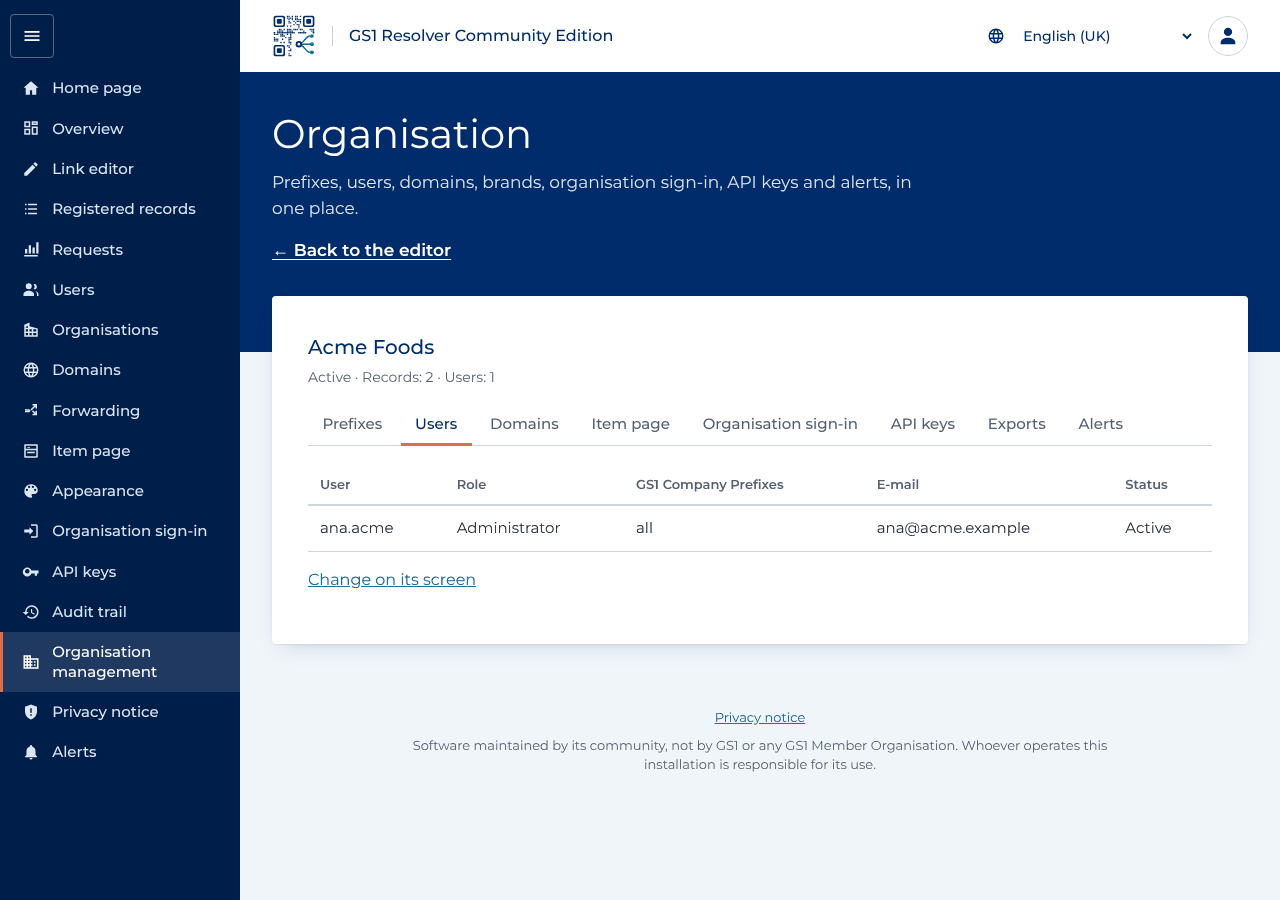
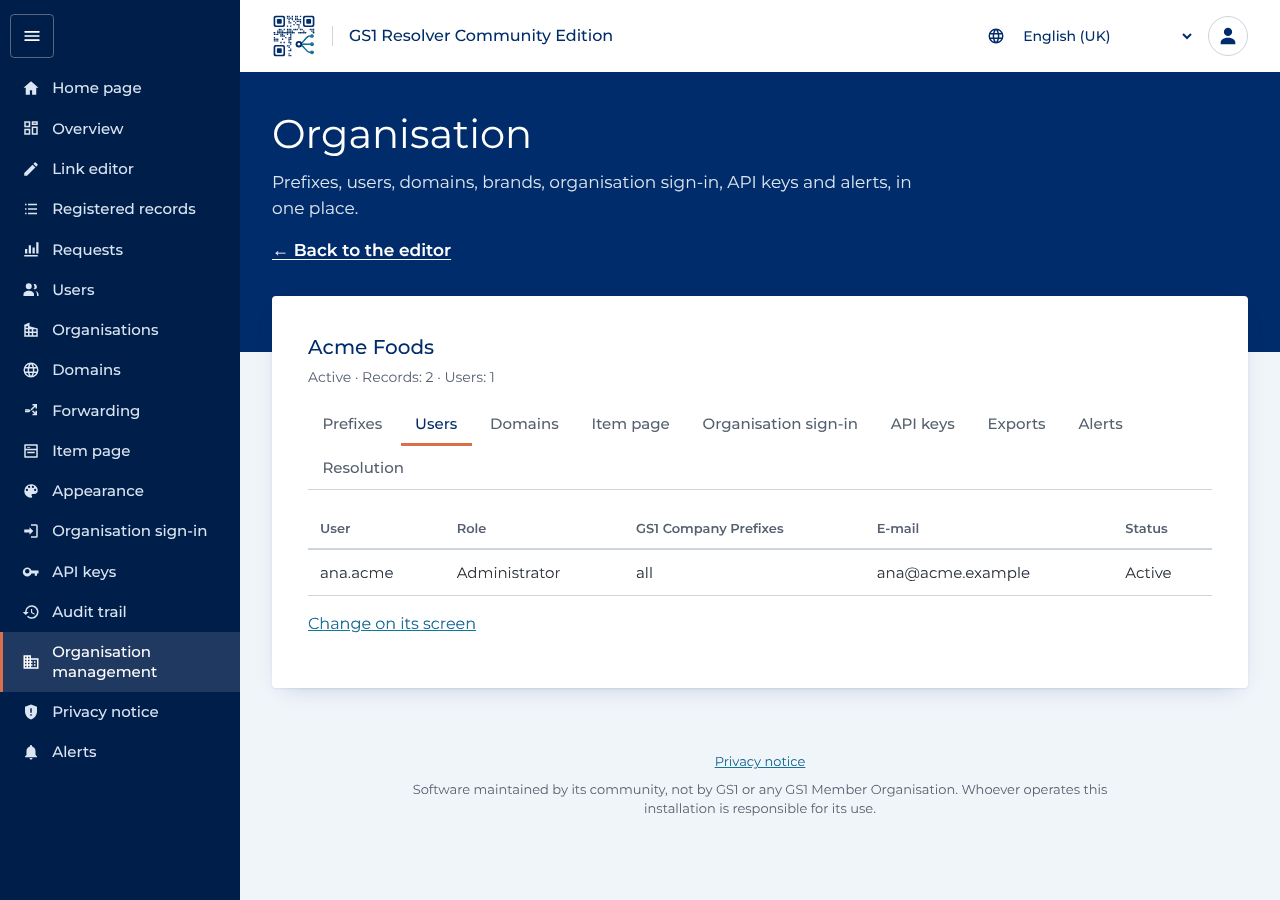
docs: the strict mode for safety-critical link types in the changelog, features, guide and history
The changelog and the portal guide tell organisations what the strict
mode changes, who switches it on (the organisation's page, Resolution;
the operator's for the codes no organisation holds) and how the requests
it keeps back appear; features cite the checks; the guide's image of the
organisation's page shows the new tab; history records step 3 of ADR
0022 (session 30). Code commit 6879817.

Claude-Session: https://claude.ai/code/session_01AV1ostr1WAtpHnzpHS1xNH

diff --git a/Documentation/portal-user-guide.md b/Documentation/portal-user-guide.md
@@ -312,7 +312,10 @@ batch or serial number goes to its own first target, or the other way round. A s
 that has no record, follows the product's choice. When a batch or serial number that has no record of its own is
 scanned, the page says so above the buttons — *Batch/lot L2 has no information of its own*, and whose targets it shows
 instead — so that nobody takes the product's recall notice or leaflet for the batch's
-([ADR 0022](adr/0022-answering-level.md)); register the batch, or at least the targets that differ, to answer for it. Above the targets the editor lists how the identifier's other
+([ADR 0022](adr/0022-answering-level.md)); register the batch, or at least the targets that differ, to answer for it.
+With the organisation's strict mode on (section 14, *Resolution*), such a batch receives no recall status, safety
+information, leaflet or instructions for use of the product at all: the page says the information is not available
+for it and lists the product's links under the same notice. Above the targets the editor lists how the identifier's other
 records do it (*Using the item's page: …*, *Going to their own default target: …*), and a new batch starts with the
 product's choice. Behind the scenes each record then carries its own default link (`gs1:defaultLink`); the portal
 writes it and does not show it, and nothing changes for the other records' targets. The page counts its **views** and the **clicks** on its buttons (section 16);
@@ -702,6 +705,7 @@ task is:
 | Create, change, disable, remove users; their roles and prefixes; invitations | their organisation's users | every user | *Users*, below |
 | See everything about one organisation in one place | their own | any organisation, and the operator's | [An organisation's page](#an-organisations-page-administrators) |
 | Limit exports per role (readers, editors, API keys) | their own | any organisation, and the operator's users | the organisation's page, *Exports* |
+| The strict mode for safety-critical link types | their own | any organisation, and the codes no organisation holds | the organisation's page, *Resolution* |
 | The most rows per export in every organisation | — | yes | [Organisations](#organisations-server-administrators) |
 | Create, rename, disable, remove organisations; their GS1 Company Prefixes | — | yes | [Organisations](#organisations-server-administrators) and the organisation's page |
 | Upload GS1's GCP length table | — | yes | [Organisations](#organisations-server-administrators) |
@@ -840,7 +844,7 @@ without changing them, only through support access.
 **Organisation management** (user menu; the page is titled with the organisation's name) gathers an organisation's
 settings in one place, each in a tab: its **Prefixes**, its
 **Users** with their prefixes, its **Domains**, its **Item page** brands, its **Organisation sign-in**, its **API
-keys**, its **Exports** and its **Alerts**. Each tab links to the screen that changes it. An organisation's
+keys**, its **Exports**, its **Alerts** and its **Resolution**. Each tab links to the screen that changes it. An organisation's
 administrators see their own; the server administrator opens any organisation from **Organisations** (**Open**),
 changes its prefixes on the **Prefixes** tab, and reaches another organisation's brands and API keys through support
 access; without choosing an organisation, the page shows the operator's own settings.
@@ -852,6 +856,22 @@ organisation's **Administrators** have the maximum. *Applies now* shows what eac
 a maximum lowered later says that the maximum applies. **Save limits** records the change in the audit trail; refused
 exports are there too (*Export refused*). On the operator's page the same tab limits the operator's users, without a
 maximum above them; server administrators have no limit. In support access the tab is read only.
+
+**Resolution** holds the **strict mode for safety-critical link types**, also changed on the tab itself
+([ADR 0022](adr/0022-answering-level.md)). Five link types are safety-critical: *Recall status*, *Safety information*,
+the patient leaflet (`gs1:epil`), the summary of product characteristics (`gs1:smpc`) and the electronic instructions
+for use (`gs1:eifu`). When a scan asks for one of them for a batch or serial number that has no such link of its own,
+the GS1 standard answers with the product's link (it cannot know which batches exist), so a batch nobody registered —
+or registered with its value typed differently — can receive the product's *not recalled* page. With the strict mode
+on, the batch or serial number must hold its own link of that type (a serial within a batch may use the batch's);
+otherwise the resolver answers that the information is not available for that batch (404) and, in a browser, shows
+the product's links under a notice that they may not apply to it. Other link types, a plain scan without a link type
+and the item's page are not affected. The table on the tab shows four requests with the mode off and on. Tick
+**Switch on the strict mode for this organisation**, confirm, and **Save**; the resolver applies the change within a
+minute, and the audit trail records it (*Strict mode changed*). Before switching it on, register a record (or at least
+these links) for every batch that should answer; *Requests* then shows the requests kept back as *Withheld by the
+strict mode*. On the operator's page the same tab sets it for the codes no organisation holds. Off by default; read
+only in support access.
 
 ### Alerts (administrators)
 
@@ -1009,7 +1029,7 @@ of the bars.
 **Latest requests.** The newest first, 200 at a time (**Show more** for the next ones). Each row shows when, the
 **Code** (the identifier and the qualifiers in the scan: a serial number appears only as `/21/*`; `?17` means the QR
 code carried an expiry date, whose value is not kept), the **Outcome** (*Redirected*, *Code not registered*, *No link
-of that type*, *Choice of links*, *Linkset*, *Invalid request*, *Item page* — a view of the item's page reached by a
+of that type*, *Withheld by the strict mode* (section 14, *Resolution*), *Choice of links*, *Linkset*, *Invalid request*, *Item page* — a view of the item's page reached by a
 scan —, *Click on the item page*…), the **Answer** (the link type asked, the level of the
 record that answered — the key's or a batch's — and the site the person was sent to), the **Device** class (phone,
 tablet, computer, automated) with the **browser** (Chrome, Safari, Firefox, Edge, Samsung Internet, Opera, *App* for
@@ -1017,7 +1037,7 @@ scanner apps and the browsers inside apps such as Instagram's) and the site the 
 the phone, the **Approximate location** (city, region — a state or province — and country; the city opens Google Maps
 on that city) and the time
 the resolver took, in milliseconds. Filter by date (**From**, **To**), **Code** (a GTIN, a GS1 Company Prefix or a
-Digital Link path such as `/01/…`), **Outcome** (*Not found (404)* gathers both kinds of 404), **Device**,
+Digital Link path such as `/01/…`), **Outcome** (*Not found (404)* gathers every kind of 404), **Device**,
 **Browser** and **Country** (two letters, such as `BR`). **Export CSV** downloads what the filters show, up to 50,000
 requests, for Excel. The list holds people's requests with a GS1 code, valid or not: requests from automated clients
 (crawlers, scripts, command-line tools) and requests without a GS1 code (probes such as `/wp-login.php`) are counted —
@@ -1093,7 +1113,8 @@ administrator chose.
 registered them — the codes **without a link of the type asked**, invalid requests, the resolver's errors and the
 average answer time (for the server administrator also the 95th percentile of the slowest day); when the server
 administrator turned forwarding on (section 14, *Forwarding*), the requests **forwarded by prefix rules** and those
-**sent to the resolver of last resort**, each apart. These count every request with a GS1 code, automated ones
+**sent to the resolver of last resort**, each apart; when a strict mode is on (section 14, *Resolution*) and kept
+requests back, the requests **withheld by the strict mode (404)**. These count every request with a GS1 code, automated ones
 included. **Scanned codes nobody registered** lists them, most scanned first: **Register**
 opens the editor on the code so that the next scan leads somewhere; *the key has other records* means the code's key
 is registered but not for the batch or serial scanned.

diff --git a/Documentation/extensions/CHANGELOG.md b/Documentation/extensions/CHANGELOG.md
@@ -5,6 +5,24 @@
 Change of behaviour an integrator may notice: the official data entry API (`/api`, `/swaggerui`) is closed to every
 address that `DATA_ENTRY_API_ALLOW` does not list; organisations' systems use the tenant API.
 
+### The strict mode for safety-critical link types (session 30)
+- **Added: a strict mode per organisation for five safety-critical link types** (`gs1:recallStatus`,
+  `gs1:safetyInfo`, `gs1:epil`, `gs1:smpc`, `gs1:eifu`; [ADR 0022](../adr/0022-answering-level.md) §2.4). Off by
+  default, so nothing changes until an organisation chooses it. With it on, a request for one of these types that names
+  a batch or serial number is answered only by a record naming that batch or serial number (a serial within a batch may
+  use the batch's record); a link held only by the product, or by a variant, is withheld: **404 with
+  `Resolution-Match: withheld`**, so that an app can tell "nothing for this batch" from "nothing at all", and in a
+  browser a page saying that the information is not available for that batch, with the product's links under the
+  notice that they may not apply to it. A batch nobody registered, or registered with its value typed in another letter
+  case, no longer receives the product's *not recalled* page as if it were its own. Other link types, a plain scan, the
+  linkset and requests without a batch or serial are not affected.
+- The organisation's administrators switch it on in the portal (organisation's page, new tab **Resolution**, with the
+  five types and an example of what changes); the server administrator for any organisation and, on the operator's
+  page, for the codes no organisation holds. Journalled (*Strict mode changed*); the resolver applies it within a
+  minute. Requests kept back appear on the Requests screen as *Withheld by the strict mode* (also under *Not found
+  (404)*), in the request log as the outcome `withheld` and in the overview's resolution quality. Texts in the twelve
+  languages. Commit `6879817`.
+
 ### The level that answered a request (session 29)
 - **Added: `Resolution-Anchor` and `Resolution-Match` on every redirect (307) and choice (300)**
   ([ADR 0022](../adr/0022-answering-level.md)): the GS1 Digital Link URI of the record whose links answered, and
@@ -12,8 +30,8 @@ address that `DATA_ENTRY_API_ALLOW` does not list; organisations' systems use th
   product's record (*walk-up*); an app can now tell, for example, that a `gs1:recallStatus` answer came from the
   product and not from the batch it asked about. Both headers are readable by web apps on other origins
   (`Access-Control-Expose-Headers`). They are not part of the GS1 standards and change no answer the standard defines.
-  The notice on the resolver's pages, an optional strict mode per organisation for five safety-critical link types and
-  warnings in the portal follow (ADR 0022 §5). Commit `826a047`.
+  The notice on the resolver's pages, an optional strict mode per organisation for five safety-critical link types
+  (session 30, above) and warnings in the portal follow (ADR 0022 §5). Commit `826a047`.
 - **Added: a notice on the item's page and the choice page when their links come from a less specific level** — for
   example *Batch/lot L2 has no information of its own. The links below belong to this level: Product (every unit)…* —
   in the visitor's language (ADR 0022 §2.3). A person who scans a batch nobody registered no longer takes the

diff --git a/Documentation/features.md b/Documentation/features.md
@@ -44,6 +44,7 @@ How to use the portal: [portal user guide](portal-user-guide.md). How each featu
 | Walk-up | A level without a record falls back to the next level: serial → batch → variant → key, instead of an error 500 | `766a652` | `resolver`: walk-up · `request_log`: walks up |
 | The level that answered | A 307 or 300 names the record that answered in `Resolution-Anchor` (on the name the request was made on) and whether the request walked up to it in `Resolution-Match` (`exact`, `walk-up`; a unit's record exact for its batch and variant), both exposed to other origins ([ADR 0022](adr/0022-answering-level.md)) | `826a047` | `resolver`: Resolution-Anchor and -Match of · `resolver`: 300: Resolution-Anchor names the level · `resolver`: CORS exposes Resolution-Anchor |
 | Notice of a less specific level | The item's page and the 300 page say, above the links, which level of the request has no record of its own and whose links are shown, in the visitor's language; nothing when the request's own level answers; values decoded and escaped ([ADR 0022](adr/0022-answering-level.md) §2.3) | `1bbdb27` | `resolver`: item's page of a batch without a record · `resolver`: choice page (300) of a batch without a record · `resolver`: no notice when the request's own level answers · `resolver`: a batch value with markup |
+| Strict mode for safety-critical link types | Per organisation, off by default: a request for `gs1:recallStatus`, `safetyInfo`, `epil`, `smpc` or `eifu` naming a batch or serial number is answered only by a record naming it, otherwise 404 with `Resolution-Match: withheld` and, in a browser, the product's links under a notice; switched on in the portal (organisation's page, *Resolution*; the operator's for the codes no organisation holds), journalled; the outcome `withheld` on the Requests screen and in the overview ([ADR 0022](adr/0022-answering-level.md) §2.4) | `6879817` | `strict_resolver`: on: a batch without its own recall link is withheld · `strict_resolver`: a browser: 404 page with the header · `strict_mode`: an organisation's administrator switches it on · `strict_mode`: the Requests screen filters by withheld · `admin_nav_e2e`: the Resolution tab |
 | Serial before batch | When a serial-number record and a batch or variant record both apply, the serial number's answers (GS1-Conformant Resolver 2.5.9, rule 4: 01+21 before 01+22+10) | `61babe1` | `resolver`: rule 4 |
 | 404 for a missing link type | A record without the requested `linkType` answers 404, as GS1-Conformant Resolver 2.6.2 requires (was 200 with an error inside) | `766a652` | `resolver`: 404 /01/07898357410015?linkType=gs1:recallStatus · `request_log`: noLink |
 | Template values kept as data | A record with a template qualifier (`{lotnumber}`) and the `{0}`/`{1}` of a serialised key put the request's value into a copy of the stored links, percent-encoded inside the address; the official code built them as JSON text, where a value with quotes could replace the target | `8c06f72` | `resolver`: template record, a value with quotes · `resolver`: serialised key template, a rest with quotes |

diff --git a/Documentation/history.md b/Documentation/history.md
@@ -1150,6 +1150,24 @@ shown (`1bbdb27`); the level headings now show values as printed. 11 new checks 
   batch never reached the page as typed — the level labels printed the percent-encoded path (`%3Ci%3E`, `A%2FB`).
 
 
+## Session 30 — the strict mode for safety-critical link types
+
+Step 3 of [ADR 0022](adr/0022-answering-level.md), with the owner's standing instruction to take the recommended
+option and carry on (the mock-ups of the strict mode's page and setting, drawn in session 29, taken as approved). An
+organisation's administrators, and the server administrator for any organisation and for the codes no organisation
+holds, switch on the strict mode on a new tab of the organisation's page, *Resolution* (`6879817`). With it on, a
+request for `recallStatus`, `safetyInfo`, `epil`, `smpc` or `eifu` that names a batch or serial number is answered only
+by a record naming it; otherwise 404 with `Resolution-Match: withheld`, and in a browser the page of a missing type
+with its own title and the notice of step 2. The resolver reads the setting like the forwarding rules (at most once a
+minute, the last value kept); the request log's new outcome `withheld` reaches the Requests screen and the overview.
+The tenant API manages records, not an organisation's settings, so the setting stays on the portal (ADR 0022 §5
+amended). 64 new checks in two new programs (`strict_resolver` 37, `strict_mode` 27) and 3 in `admin_nav_e2e`; 13
+mutations, all caught.
+
+- `HEAD` unpacked the GET's answer as two values, so a 404 carrying a header (the first one) failed with a 500: the
+  three `head()` methods now pass the answer to `make_response()` whole.
+- The safety-critical list lives in two images (resolver and portal) that share no code: a check of `strict_mode`
+  reads the resolver's source and compares, so the two cannot drift apart unnoticed.
 
 | Area | 1.0.0 (session 1) | Now |
 |---|---|---|
